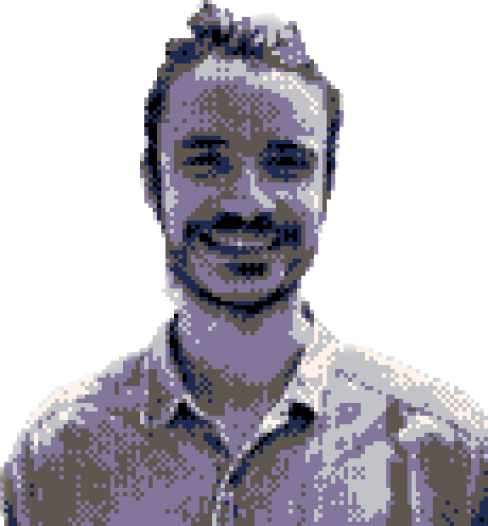
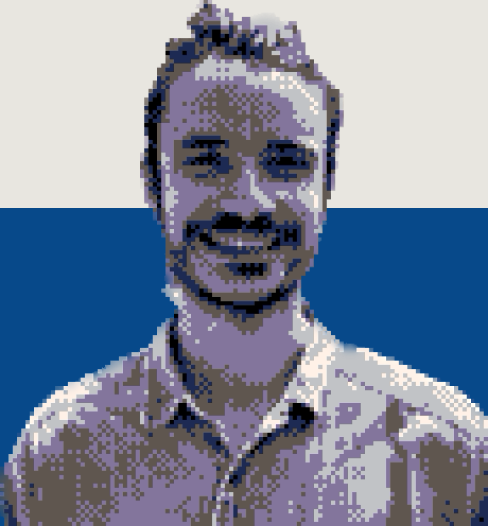
page testimonial

diff --git a/src/PortfolioContainer/Testimonial/Testimonial.css b/src/PortfolioContainer/Testimonial/Testimonial.css
@@ -1,0 +1,82 @@
+:root {
+  --blue: #07498a;
+  --grey: #e8e6e2;
+  --orange: #ff7f50;
+}
+
+.testimonial-section {
+  width: 85%;
+  margin: 100px auto;
+  padding: 100px 20px;
+  background-image: url("../../assets/Testimonial/testimonial-background.png");
+  background-position: center;
+  background-size: cover;
+  background-attachment: fixed;
+  position: relative;
+  z-index: -1;
+}
+
+.testimonial-section .testi-item {
+  background-color: var(--grey);
+  padding: 30px;
+}
+
+.testimonial-section .testi-item p {
+  font-size: 16px;
+  line-height: 26px;
+  font-weight: bold;
+  margin: 0 0 10px;
+  font-family: "Poppins", sans-serif;
+}
+
+.testi-item p .fa-quote-left {
+  margin-right: 5px;
+  color: var(--orange);
+}
+
+.testi-item p .fa-quote-right {
+  margin-left: 5px;
+  color: var(--orange);
+}
+
+.testimonial-section .client-info {
+  position: relative;
+  padding-left: 80px;
+  padding-top: 5px;
+  min-height: 60px;
+}
+
+.testimonial-section .client-info img {
+  height: 70px;
+  width: 70px !important;
+  border: 2px solid transparent;
+  border-color: black;
+  left: 0;
+  top: 0;
+  border-radius: 50%;
+  position: absolute;
+}
+
+.testimonial-section .client-info h5 {
+    font-size: 16px;
+    font-weight: bold;
+    line-height: 26px;
+    margin: 0 0 2px;
+    font-family: "Poppins", sans-serif;
+}
+
+.testimonial-section .client-info p{
+    font-size: 16px;
+    line-height: 26px;
+}
+
+
+@media (max-width: 768px) {
+
+
+    .testimonial-section {
+        width: 100%;
+        
+      }
+
+}

diff --git a/src/PortfolioContainer/Testimonial/Testimonial.jsx b/src/PortfolioContainer/Testimonial/Testimonial.jsx
@@ -1,4 +1,5 @@
 import React from "react";
+import './Testimonial.css';
 import OwlCarousel from "react-owl-carousel";
 import "owl.carousel/dist/assets/owl.carousel.css";
 import "owl.carousel/dist/assets/owl.theme.default.css";
@@ -20,9 +21,9 @@ export default function Testimonial(props) {
               items: 1
           },
           768:{
-            items: 1
+            items: 2
         },
-        1000:{
+        1024:{
             items: 3
         },
       }
@@ -46,7 +47,7 @@ export default function Testimonial(props) {
                   </div>
                   <div className="client-info">
                       <img src="img/testimonial/lady.png" alt="lady-png" />
-                      <h5>Daidy Dominic</h5>
+                      <h5>Xavier</h5>
                       <p>CEO Global</p>
                   </div>
                 </div>
@@ -80,7 +81,7 @@ export default function Testimonial(props) {
                   </div>
                   <div className="client-info">
                       <img src="img/testimonial/lady.png" alt="lady-png" />
-                      <h5>Daidy Dominic</h5>
+                      <h5>Florent Didi</h5>
                       <p>CEO Global</p>
                   </div>
                 </div>
